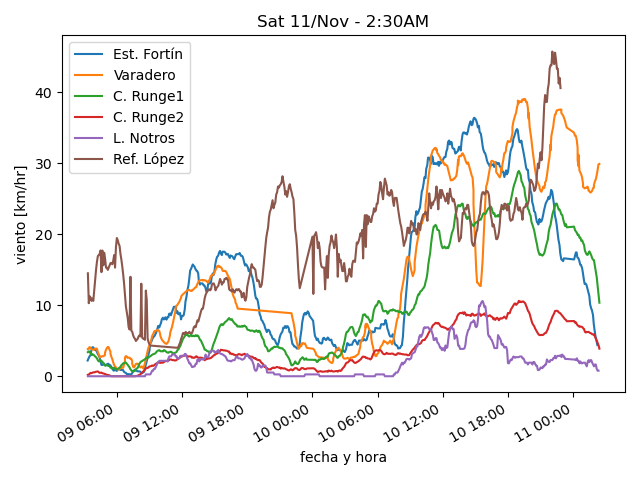
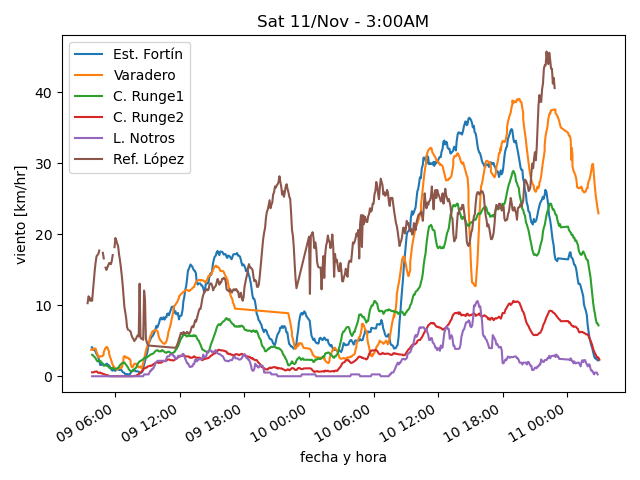
actualiza datos

diff --git a/estaciones/estacion3.html b/estaciones/estacion3.html
@@ -18,37 +18,37 @@
     </tr>
     <tr>
      <td class="stats_data">
-      2:24AM
+      2:54AM
      </td>
     </tr>
     <tr>
      <td class="stats_data">
-      4.7⁰C
+      4.6⁰C
      </td>
     </tr>
     <tr>
      <td class="stats_data">
-      3.5⁰C
+      3.3⁰C
      </td>
     </tr>
     <tr>
      <td class="stats_data">
-      91.3%
+      91.6%
      </td>
     </tr>
     <tr>
      <td class="stats_data">
-      993.84hPa
+      993.63hPa
      </td>
     </tr>
     <tr>
      <td class="stats_data">
-      3.5/5.1 km/hr WNW
+      4.5/6.2 km/hr WNW
      </td>
     </tr>
     <tr>
      <td class="stats_data">
-      0.3 / 0.0 mm
+      0.51 / 0.0 mm
      </td>
     </tr>
     <tr>

diff --git a/estaciones/estacion4.html b/estaciones/estacion4.html
@@ -18,12 +18,12 @@
     </tr>
     <tr>
      <td class="stats_data">
-      2:24AM
+      2:59AM
      </td>
     </tr>
     <tr>
      <td class="stats_data">
-      4.9⁰C
+      4.7⁰C
      </td>
     </tr>
     <tr>
@@ -33,22 +33,22 @@
     </tr>
     <tr>
      <td class="stats_data">
-      87.9%
+      89.2%
      </td>
     </tr>
     <tr>
      <td class="stats_data">
-      1002.81hPa
+      1002.64hPa
      </td>
     </tr>
     <tr>
      <td class="stats_data">
-      0.9/1.6 km/hr SW
+      0.7/1.3 km/hr SSW
      </td>
     </tr>
     <tr>
      <td class="stats_data">
-      0.51 / 1.8 mm
+      0.51 / 0.0 mm
      </td>
     </tr>
     <tr>

diff --git a/estaciones/estacion2.html b/estaciones/estacion2.html
@@ -18,32 +18,32 @@
     </tr>
     <tr>
      <td class="stats_data">
-      2:24AM
+      2:54AM
      </td>
     </tr>
     <tr>
      <td class="stats_data">
-      7.3⁰C
+      6.7⁰C
      </td>
     </tr>
     <tr>
      <td class="stats_data">
-      4.3⁰C
+      4.5⁰C
      </td>
     </tr>
     <tr>
      <td class="stats_data">
-      81.1%
+      85.4%
      </td>
     </tr>
     <tr>
      <td class="stats_data">
-      1008.74hPa
+      1008.33hPa
      </td>
     </tr>
     <tr>
      <td class="stats_data">
-      22.5/27.3 km/hr NW
+      21.9/25.4 km/hr NW
      </td>
     </tr>
     <tr>

diff --git a/estaciones/estacion1.html b/estaciones/estacion1.html
@@ -18,12 +18,12 @@
     </tr>
     <tr>
      <td class="stats_data">
-      2:13AM
+      2:54AM
      </td>
     </tr>
     <tr>
      <td class="stats_data">
-      6.2⁰C
+      6.3⁰C
      </td>
     </tr>
     <tr>
@@ -33,17 +33,17 @@
     </tr>
     <tr>
      <td class="stats_data">
-      75.0%
+      74.7%
      </td>
     </tr>
     <tr>
      <td class="stats_data">
-      1001.02hPa
+      1000.34hPa
      </td>
     </tr>
     <tr>
      <td class="stats_data">
-      1.4/1.6 km/hr SW
+      2.0/3.2 km/hr WSW
      </td>
     </tr>
     <tr>

diff --git a/estaciones/estacion5.html b/estaciones/estacion5.html
@@ -18,27 +18,27 @@
     </tr>
     <tr>
      <td class="stats_data">
-      2:20AM
+      2:50AM
      </td>
     </tr>
     <tr>
      <td class="stats_data">
-      5.6⁰C
+      5.1⁰C
      </td>
     </tr>
     <tr>
      <td class="stats_data">
-      3.1⁰C
+      2.9⁰C
      </td>
     </tr>
     <tr>
      <td class="stats_data">
-      84.0%
+      86.0%
      </td>
     </tr>
     <tr>
      <td class="stats_data">
-      1004.54hPa
+      1004.13hPa
      </td>
     </tr>
     <tr>
